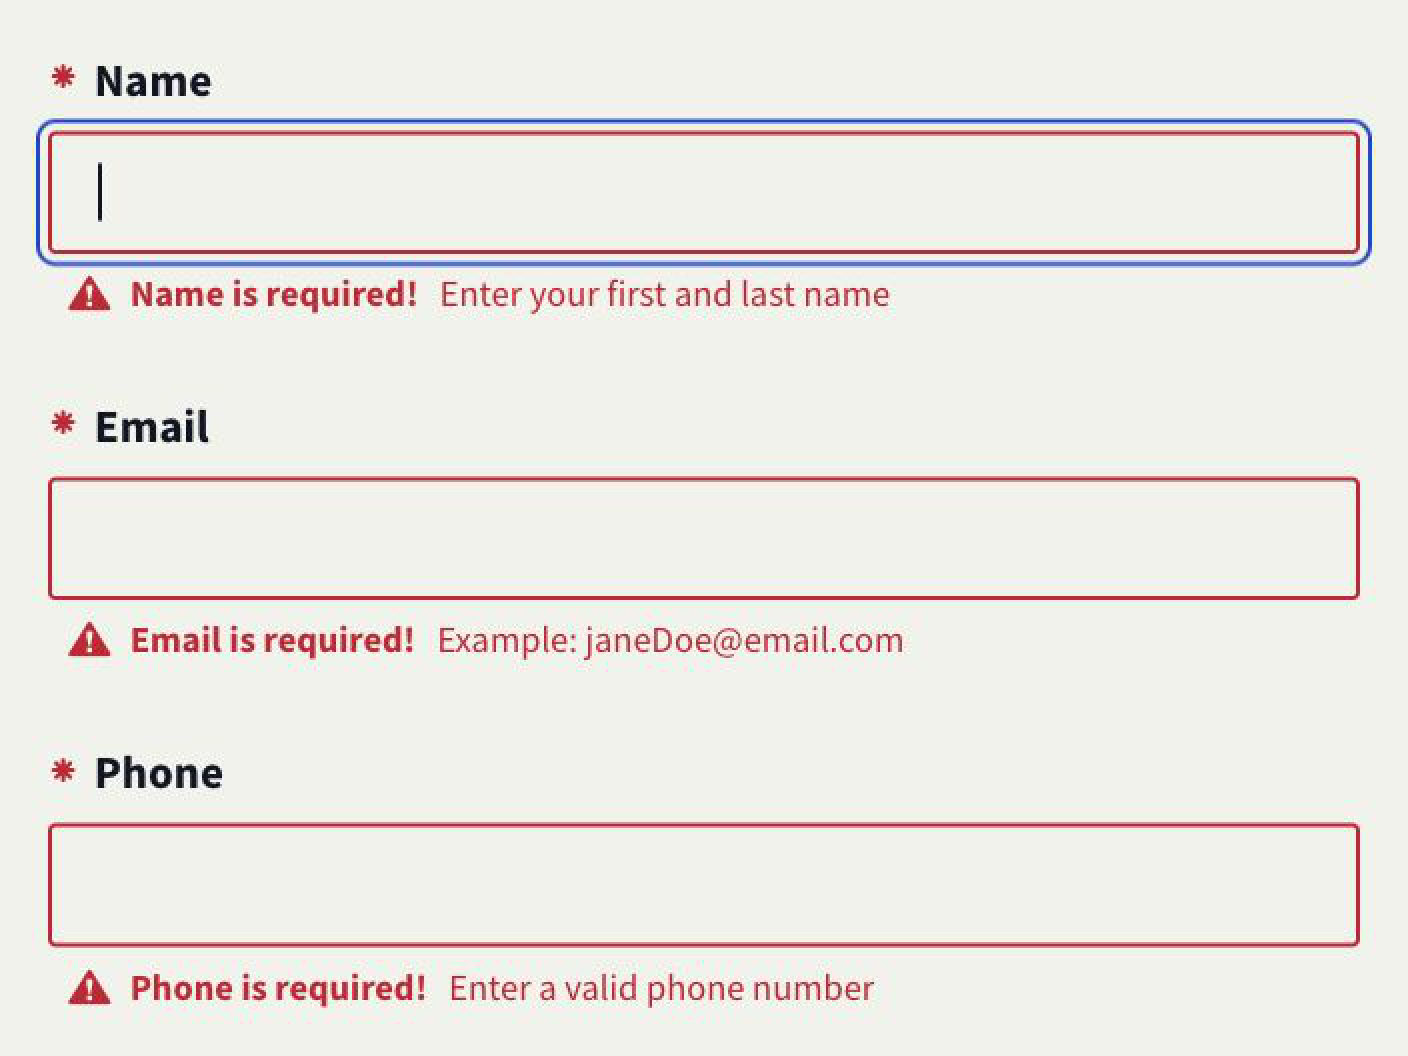
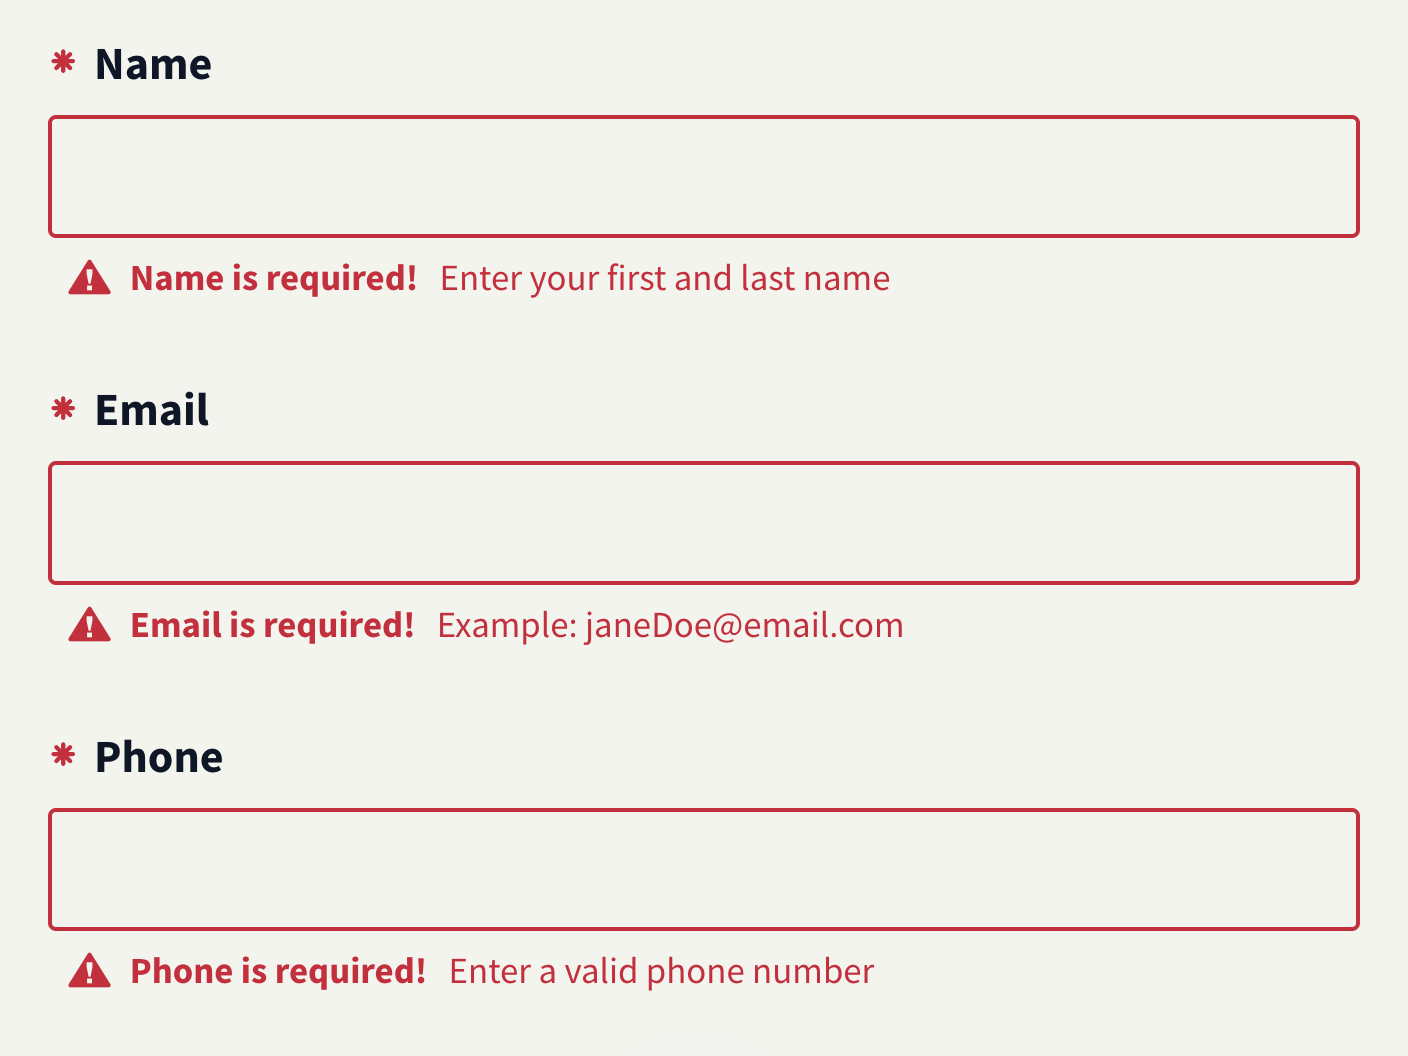
Clean Natura11y figures and standardize closing heading

diff --git a/context/case-study-graphics.md b/context/case-study-graphics.md
@@ -1,5 +1,12 @@
 # Case-study graphics
 
+## October 4 — Natura11y figure quality follow-up
+
+- Color uses the clean original Figma node `1495:2334`, exported at 3840 × 2160. Carl chose to retain the medium inline preview and widen only this lightbox to a maximum of 1800 px, constrained to the viewport. Local browser checks confirmed 1800 px at a 2200 px viewport and 1248 px at a 1280 px viewport. `LightboxImage` now reserves the full thumbnail width before lazy loading.
+- Form validation uses the saved native Chrome PNG (`output/gonatura11y.com_docs_form_.png`, 1408 × 3106) as its source in Figma frame `1463:1027`. The frame retains its 704 × 528 crop; two background-colored rectangles hide LastPass badges inside Name and Email. Native 2× export is `src/images/natura11y/natura11y-form-validation.png` (1408 × 1056). Render as PNG to avoid introducing lossy artifacts. The saved capture has no focus outline; caption and alt describe validation feedback without claiming an outline. Do not add a simulated focus state to a screenshot.
+- Natura11y was the only case study still headed “Reflection.” Changed it to the approved “Looking back”; the other seven already match. Regenerated all Hemingway exports.
+- Carl explicitly objected to repeated native-browser capture attempts and foreground interruptions. Do not resume Chrome/Finder control for this task. Prefer background connectors and saved files; never ask him to pause repeatedly for routine image cleanup.
+
 Working review list · Updated October 4, 2026
 
 ## October 4 — Portfolio Figma case-study organization
